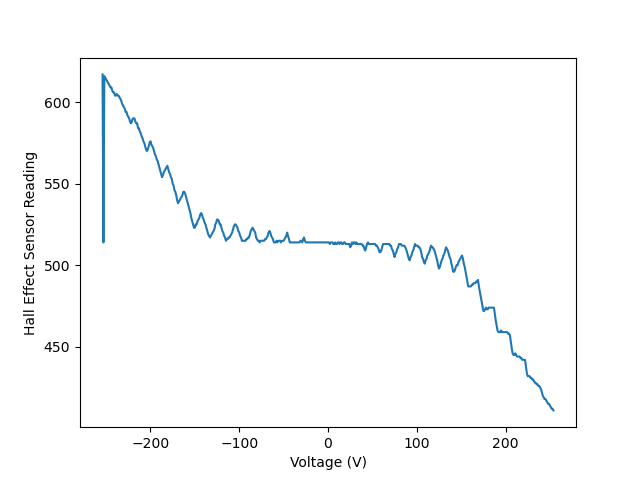
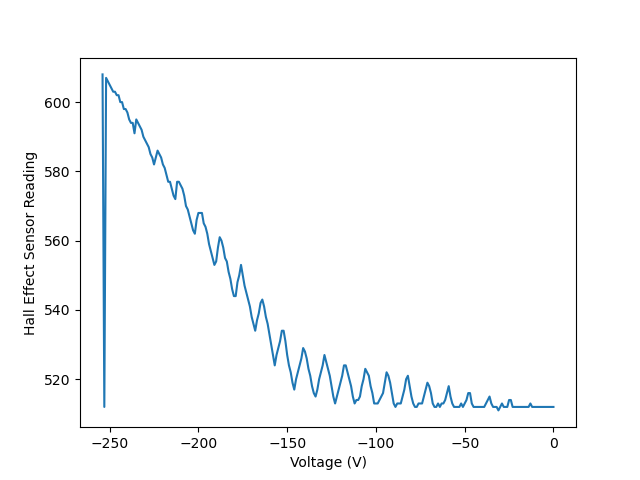
line fit and other scripts

diff --git a/sweep.py b/sweep.py
@@ -29,15 +29,15 @@ for i in reversed(range(0, 255)):
     if measurement:
         data.append([v, int(measurement.strip())])
 
-for i in range(0, 255):
-    # v = 12 * i/255
-    v = i
-    arduino.write((i).to_bytes(1, 'big'))
-    arduino.write((0).to_bytes(1, 'big'))
-    measurement = arduino.readline()
-    print(f"{v:.2f} \t {measurement}")
-    if measurement:
-        data.append([v, int(measurement.strip())])
+# for i in range(0, 255):
+#     # v = 12 * i/255
+#     v = i
+#     arduino.write((i).to_bytes(1, 'big'))
+#     arduino.write((0).to_bytes(1, 'big'))
+#     measurement = arduino.readline()
+#     print(f"{v:.2f} \t {measurement}")
+#     if measurement:
+#         data.append([v, int(measurement.strip())])
 
 
 data = np.array(data)

diff --git a/line_fit.py b/line_fit.py
@@ -9,6 +9,11 @@ polynomial = np.poly1d(coefficients)
 print(coefficients)
 x = np.linspace(sweep[r_s:r_e, 0].min(), sweep[r_s:r_e, 0].max())
 y = polynomial(x)
-plt.plot(sweep[r_s:r_e, 0], sweep[r_s:r_e, 1])
-plt.plot(x, y, '-', label='Fitted line')
+plt.plot(sweep[r_s:r_e, 0], sweep[r_s:r_e, 1], '.', label='Raw Data')
+plt.plot(x, y, '-', label=f'Fitted Line m={coefficients[0]:.2f} b={coefficients[1]:.2f}')
+plt.xlabel('Voltage Input [raw]')
+plt.ylabel('Hall-Effect Sensor Measurement [raw]')
+plt.title('Electromagnet Linearization')
+plt.legend()
+plt.savefig('data/line_fit.png')    
 plt.show()
